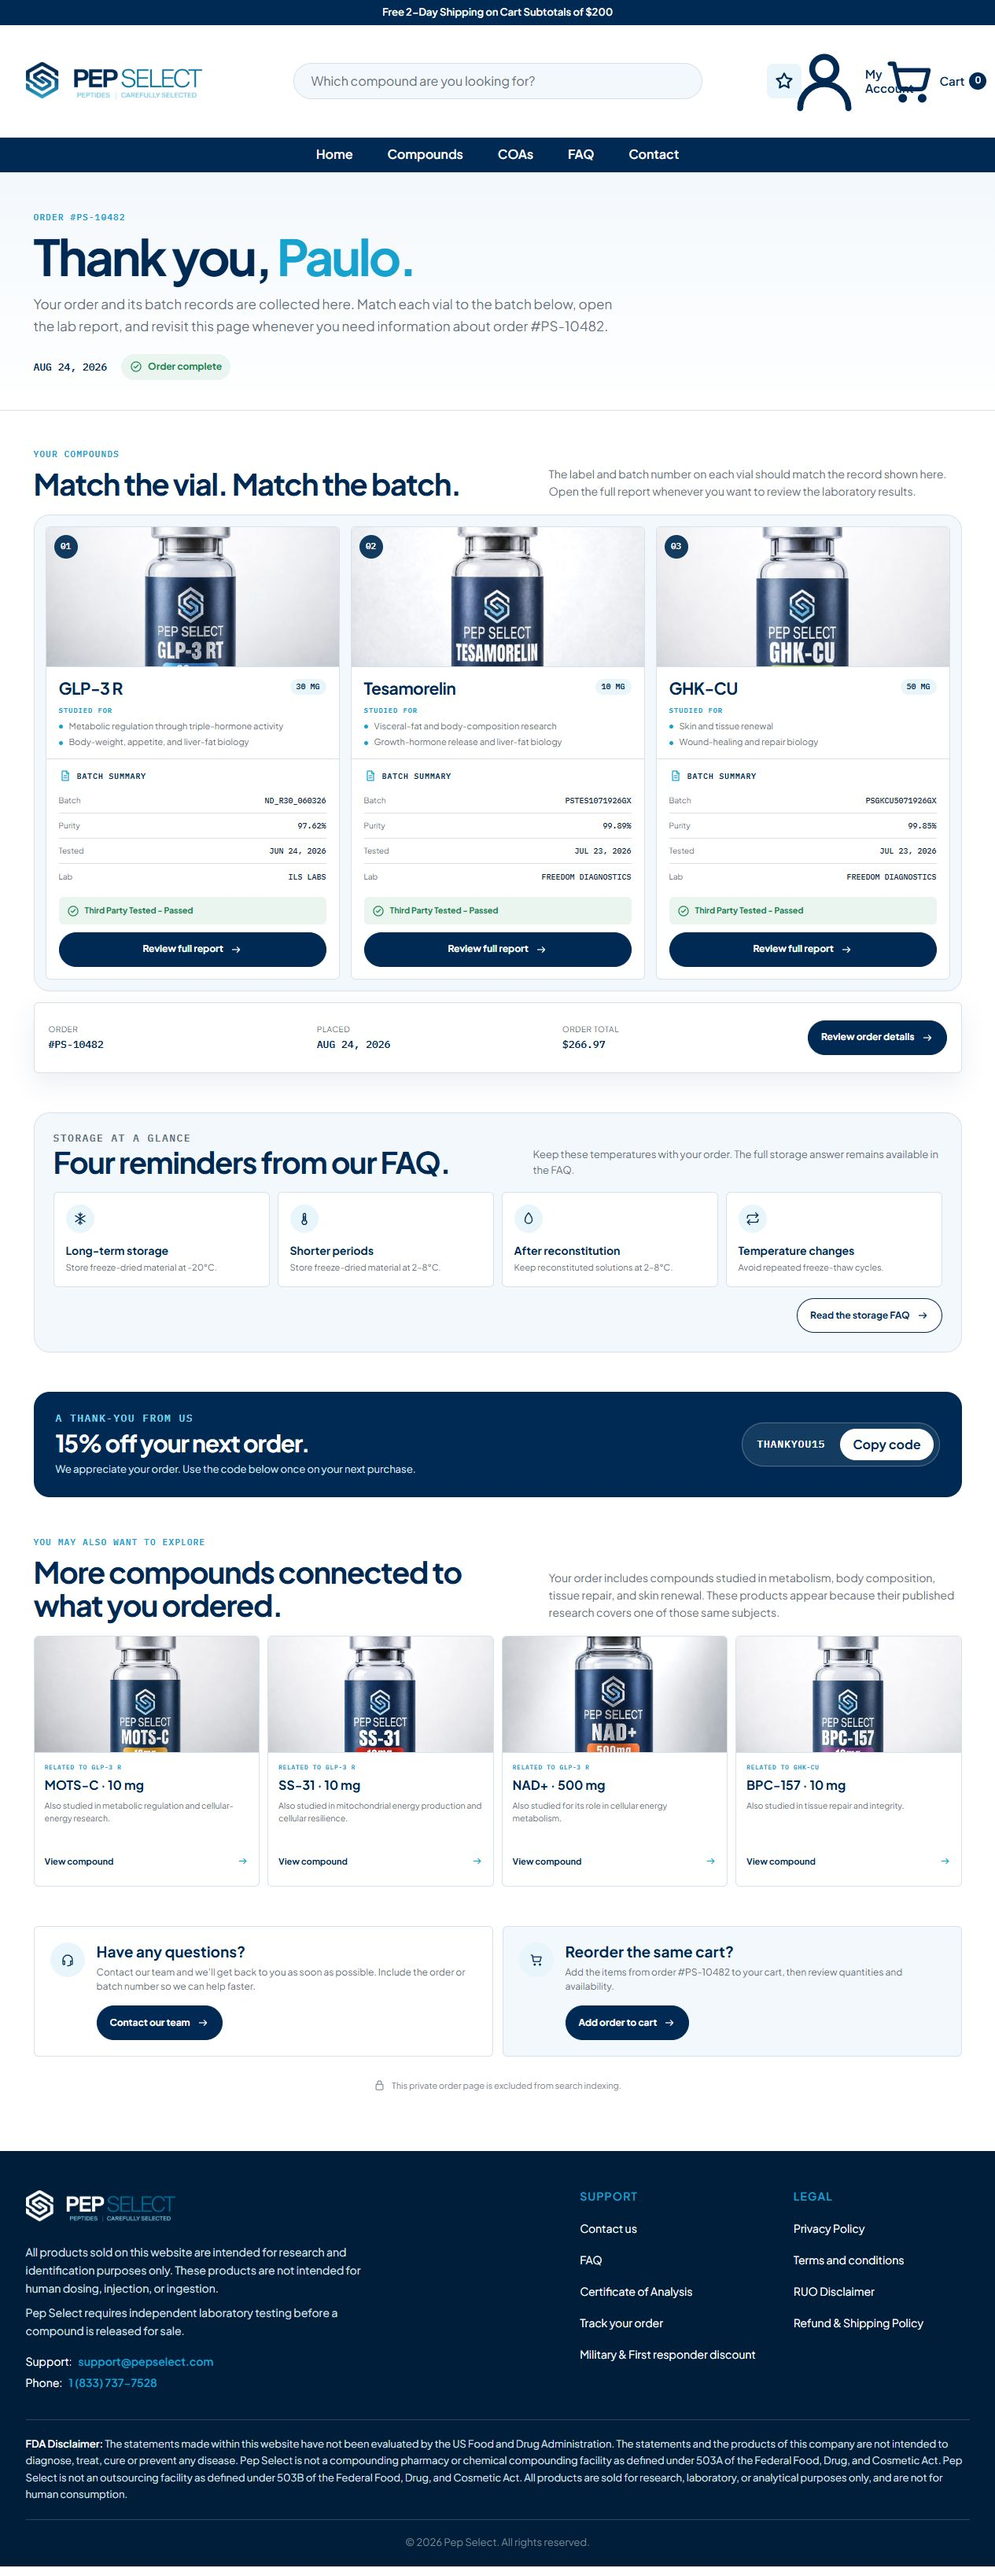
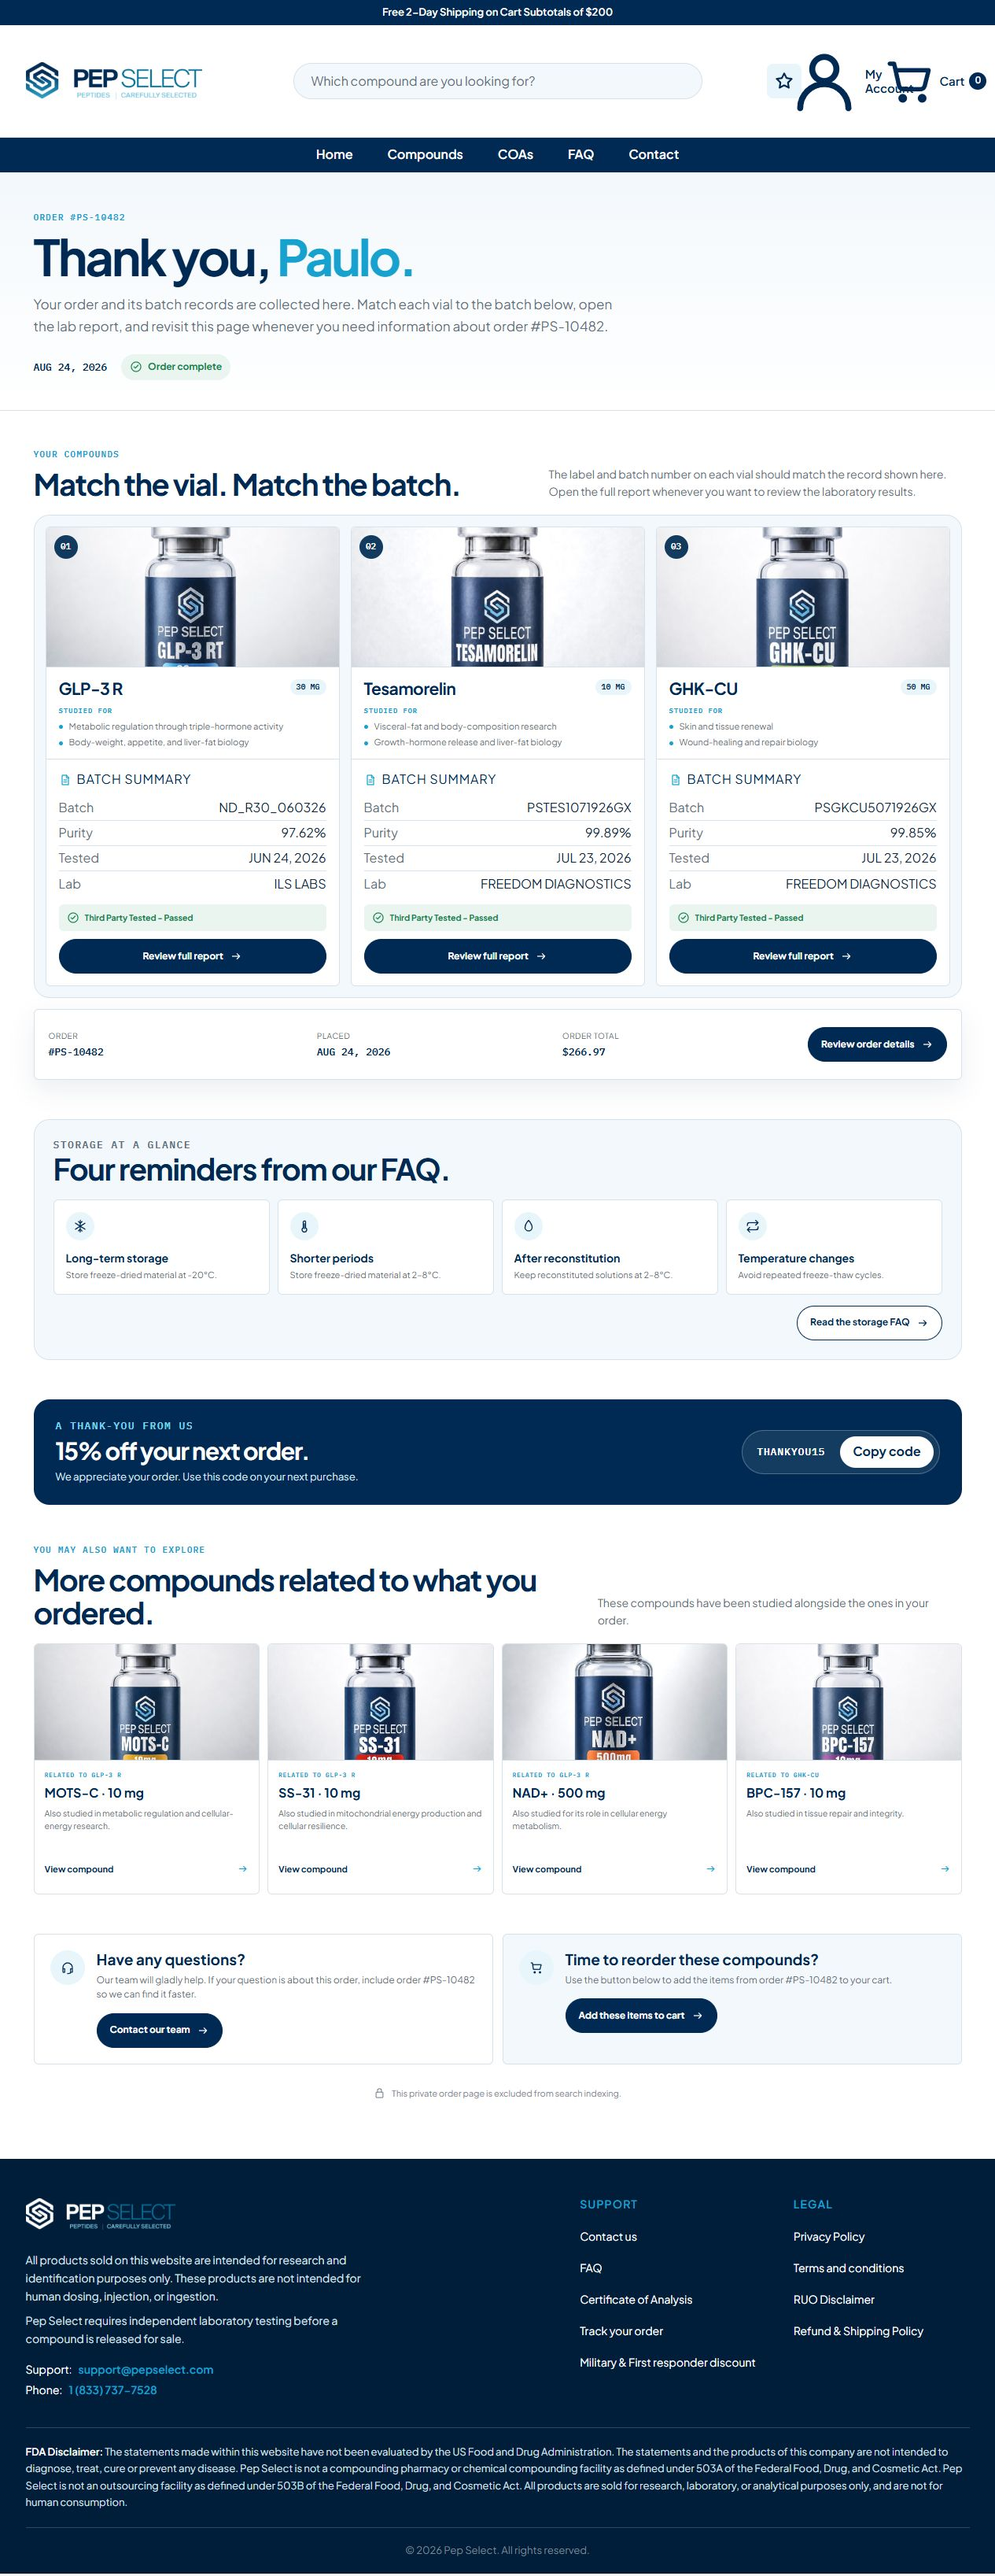
Polish order page type and customer copy

diff --git a/order-thankyou/concept-03.html b/order-thankyou/concept-03.html
@@ -54,13 +54,13 @@
     .context-list li{position:relative;padding-left:13px}
     .context-list li:before{content:"";position:absolute;left:0;top:.6em;width:5px;height:5px;border-radius:50%;background:var(--pep-color-cyan)}
     .batch-block{margin-top:auto;border-top:1px solid var(--pep-color-border);padding:13px 16px 15px}
-    .batch-heading{display:flex;align-items:center;gap:7px;margin:0 0 8px;color:var(--pep-color-navy);font:600 10px/1.3 var(--pep-font-technical);letter-spacing:.08em;text-transform:uppercase}
+    .batch-heading{display:flex;align-items:center;gap:7px;margin:0 0 8px;color:var(--pep-color-navy);font:700 11px/1.3 var(--pep-font-body);letter-spacing:.055em;text-transform:uppercase}
     .batch-heading .icon{width:16px;height:16px;color:var(--pep-color-cyan)}
     .batch-rows{margin:0}
     .batch-row{display:grid;grid-template-columns:minmax(80px,.8fr) minmax(0,1.3fr);gap:10px;align-items:center;min-height:32px;border-bottom:1px solid var(--pep-color-border)}
     .batch-row:last-child{border-bottom:0}
-    .batch-row dt{margin:0;color:var(--pep-color-slate);font-size:10px}
-    .batch-row dd{margin:0;text-align:right;overflow-wrap:anywhere;color:var(--pep-color-ink);font:500 10px/1.35 var(--pep-font-technical)}
+    .batch-row dt{margin:0;color:var(--pep-color-slate);font:500 12px/1.4 var(--pep-font-body)}
+    .batch-row dd{margin:0;text-align:right;overflow-wrap:anywhere;color:var(--pep-color-ink);font:700 11.5px/1.4 var(--pep-font-body)}
     .test-result{display:flex;align-items:center;gap:7px;margin-top:10px;padding:9px 10px;border-radius:var(--order-inner);color:var(--pep-color-green);background:var(--pep-color-green-soft);font-size:10.5px;font-weight:700}
     .test-result .icon{flex:0 0 auto;width:16px;height:16px}
     .report-button,.card-button,.receipt-button,.faq-button{display:inline-flex;align-items:center;justify-content:center;gap:8px;min-height:44px;border:1px solid var(--pep-color-navy);border-radius:var(--pep-radius-pill);padding:9px 16px;color:#fff;background:var(--pep-color-navy);font-size:12px;font-weight:700;text-decoration:none;cursor:pointer;transition:background-color .18s ease,border-color .18s ease}
@@ -126,7 +126,7 @@
       .order-main{padding:34px 0 48px}.order-section+.order-section{margin-top:38px}.section-head{display:block;margin-bottom:15px}.section-head h2{font-size:27px}.section-head>p{margin-top:8px;font-size:12.5px}
       .ordered-grid{grid-template-columns:repeat(2,minmax(0,1fr));gap:8px;padding:8px}.ordered-card:last-child{grid-column:auto;max-width:none}.ordered-media{height:116px}.item-count{top:7px;left:7px;width:26px;height:26px;font-size:9px}
       .ordered-info{padding:11px 10px 9px}.ordered-title{display:block;margin-bottom:8px}.ordered-title h3{font-size:15px}.strength{display:inline-block;margin-top:5px;font-size:8px}.context-label{font-size:7.5px}.context-list{gap:4px;font-size:9px;line-height:1.4}.context-list li{padding-left:10px}.context-list li:before{width:4px;height:4px}
-      .batch-block{padding:10px}.batch-heading{font-size:8px}.batch-row{grid-template-columns:minmax(44px,.62fr) minmax(0,1.38fr);gap:5px;min-height:29px}.batch-row dt{font-size:8px}.batch-row dd{font-size:8px}.test-result{padding:8px 7px;font-size:8px;line-height:1.35}.test-result .icon{width:14px;height:14px}.report-button{min-height:40px;padding:7px 8px;font-size:9px}.report-button .icon{width:14px;height:14px}
+      .batch-block{padding:10px}.batch-heading{font-size:10.5px}.batch-row{grid-template-columns:minmax(44px,.62fr) minmax(0,1.38fr);gap:5px;min-height:34px}.batch-row dt{font-size:10.5px}.batch-row dd{font-size:10.5px;line-height:1.35}.test-result{padding:8px 7px;font-size:9px;line-height:1.35}.test-result .icon{width:14px;height:14px}.report-button{min-height:40px;padding:7px 8px;font-size:9px}.report-button .icon{width:14px;height:14px}
       .receipt summary{grid-template-columns:1fr 1fr;gap:12px;padding:14px}.receipt-summary-item:nth-child(3){display:none}.receipt-button{grid-column:1/-1;width:100%}.receipt-details{grid-template-columns:1fr;gap:0;padding:0 14px 14px}.receipt-costs{padding-top:4px}
       .storage-shell{padding:17px 12px}.storage-head{display:block}.storage-head h2{font-size:26px}.storage-head p{margin-top:8px;font-size:12px}.storage-grid{grid-template-columns:repeat(2,minmax(0,1fr));gap:8px}.storage-fact{padding:12px}.storage-fact .icon-wrap{width:32px;height:32px;margin-bottom:10px}.storage-fact h3{font-size:12px}.storage-fact p{font-size:9.5px}.storage-action{justify-content:stretch}.faq-button{width:100%}
       .thank-you-offer{grid-template-columns:1fr;padding:22px 18px;gap:16px}.thank-you-offer h2{font-size:25px}.coupon{width:100%;justify-content:space-between}
@@ -134,7 +134,7 @@
       .help-grid{grid-template-columns:repeat(2,minmax(0,1fr));gap:8px}.help-card{display:flex;flex-direction:column;padding:13px;gap:9px}.help-icon{width:38px;height:38px}.help-card h2{font-size:15px}.help-card p{min-height:64px;margin-bottom:11px;font-size:9.5px}.card-button{width:100%;padding:8px;font-size:9px}
       .privacy-note{font-size:9px;text-align:center}
     }
-    @media(max-width:360px){.order-wrap{width:min(100% - 18px,1180px)}.ordered-grid,.storage-grid,.related-grid,.help-grid{gap:6px}.ordered-info,.batch-block,.related-body,.help-card{padding:8px}.ordered-media{height:104px}.ordered-title h3{font-size:14px}.batch-row dd{font-size:7.5px}}
+    @media(max-width:360px){.order-wrap{width:min(100% - 18px,1180px)}.ordered-grid,.storage-grid,.related-grid,.help-grid{gap:6px}.ordered-info,.batch-block,.related-body,.help-card{padding:8px}.ordered-media{height:104px}.ordered-title h3{font-size:14px}.batch-row dt,.batch-row dd{font-size:10px}}
   </style>
 </head>
 <body class="pepselect-header-preview pepselect-footer-preview">
@@ -181,13 +181,13 @@
         <details class="receipt"><summary><div class="receipt-summary-item"><span>Order</span><strong>#PS-10482</strong></div><div class="receipt-summary-item"><span>Placed</span><strong>AUG 24, 2026</strong></div><div class="receipt-summary-item"><span>Order total</span><strong>$266.97</strong></div><span class="receipt-button">Review order details<svg class="icon"><use href="#i-arrow"/></svg></span></summary><div class="receipt-details"><div class="receipt-items"><div class="receipt-line"><span>GLP-3 R · 30 mg</span><span>$179.99</span></div><div class="receipt-line"><span>Tesamorelin · 10 mg</span><span>$52.99</span></div><div class="receipt-line"><span>GHK-CU · 50 mg</span><span>$33.99</span></div></div><div class="receipt-costs"><div class="receipt-line"><span>Subtotal</span><span>$266.97</span></div><div class="receipt-line"><span>Shipping</span><span>$0.00</span></div><div class="receipt-line total"><span>Total</span><span>$266.97</span></div></div></div></details>
       </section>
 
-      <section class="order-section storage-shell"><div class="storage-head"><div><p class="section-kicker">Storage at a glance</p><h2>Four reminders from our FAQ.</h2></div><p>Keep these temperatures with your order. The full storage answer remains available in the FAQ.</p></div><div class="storage-grid"><article class="storage-fact"><div class="icon-wrap"><svg class="icon"><use href="#i-snow"/></svg></div><h3>Long-term storage</h3><p>Store freeze-dried material at -20°C.</p></article><article class="storage-fact"><div class="icon-wrap"><svg class="icon"><use href="#i-therm"/></svg></div><h3>Shorter periods</h3><p>Store freeze-dried material at 2–8°C.</p></article><article class="storage-fact"><div class="icon-wrap"><svg class="icon"><use href="#i-drop"/></svg></div><h3>After reconstitution</h3><p>Keep reconstituted solutions at 2–8°C.</p></article><article class="storage-fact"><div class="icon-wrap"><svg class="icon"><use href="#i-repeat"/></svg></div><h3>Temperature changes</h3><p>Avoid repeated freeze-thaw cycles.</p></article></div><div class="storage-action"><a class="faq-button" href="https://pepselect.com/faq/">Read the storage FAQ<svg class="icon"><use href="#i-arrow"/></svg></a></div></section>
+      <section class="order-section storage-shell"><div class="storage-head"><div><p class="section-kicker">Storage at a glance</p><h2>Four reminders from our FAQ.</h2></div></div><div class="storage-grid"><article class="storage-fact"><div class="icon-wrap"><svg class="icon"><use href="#i-snow"/></svg></div><h3>Long-term storage</h3><p>Store freeze-dried material at -20°C.</p></article><article class="storage-fact"><div class="icon-wrap"><svg class="icon"><use href="#i-therm"/></svg></div><h3>Shorter periods</h3><p>Store freeze-dried material at 2–8°C.</p></article><article class="storage-fact"><div class="icon-wrap"><svg class="icon"><use href="#i-drop"/></svg></div><h3>After reconstitution</h3><p>Keep reconstituted solutions at 2–8°C.</p></article><article class="storage-fact"><div class="icon-wrap"><svg class="icon"><use href="#i-repeat"/></svg></div><h3>Temperature changes</h3><p>Avoid repeated freeze-thaw cycles.</p></article></div><div class="storage-action"><a class="faq-button" href="https://pepselect.com/faq/">Read the storage FAQ<svg class="icon"><use href="#i-arrow"/></svg></a></div></section>
 
-      <section class="order-section thank-you-offer"><div><p class="section-kicker">A thank-you from us</p><h2>15% off your next order.</h2><p>We appreciate your order. Use the code below once on your next purchase.</p></div><div class="coupon"><code>THANKYOU15</code><button type="button">Copy code</button></div></section>
+      <section class="order-section thank-you-offer"><div><p class="section-kicker">A thank-you from us</p><h2>15% off your next order.</h2><p>We appreciate your order. Use this code on your next purchase.</p></div><div class="coupon"><code>THANKYOU15</code><button type="button">Copy code</button></div></section>
 
-      <section class="order-section"><div class="section-head"><div><p class="section-kicker">You may also want to explore</p><h2>More compounds connected to what you ordered.</h2></div><p>Your order includes compounds studied in metabolism, body composition, tissue repair, and skin renewal. These products appear because their published research covers one of those same subjects.</p></div><div class="related-grid"><a class="related-card" href="https://pepselect.com/product/mots-c/"><div class="related-image"><img src="assets/mots-c-10mg.jpg" alt="Pep Select MOTS-C 10 mg vial"></div><div class="related-body"><span class="related-to">Related to GLP-3 R</span><h3>MOTS-C · 10 mg</h3><p>Also studied in metabolic regulation and cellular-energy research.</p><span class="related-link">View compound<svg class="icon"><use href="#i-arrow"/></svg></span></div></a><a class="related-card" href="https://pepselect.com/product/ss-31/"><div class="related-image"><img src="assets/ss-31-10mg.jpg" alt="Pep Select SS-31 10 mg vial"></div><div class="related-body"><span class="related-to">Related to GLP-3 R</span><h3>SS-31 · 10 mg</h3><p>Also studied in mitochondrial energy production and cellular resilience.</p><span class="related-link">View compound<svg class="icon"><use href="#i-arrow"/></svg></span></div></a><a class="related-card" href="https://pepselect.com/product/nad/"><div class="related-image"><img src="assets/nad-500mg.jpg" alt="Pep Select NAD+ 500 mg vial"></div><div class="related-body"><span class="related-to">Related to GLP-3 R</span><h3>NAD+ · 500 mg</h3><p>Also studied for its role in cellular energy metabolism.</p><span class="related-link">View compound<svg class="icon"><use href="#i-arrow"/></svg></span></div></a><a class="related-card" href="https://pepselect.com/product/bpc-157/"><div class="related-image"><img src="assets/bpc-157-10mg.jpg" alt="Pep Select BPC-157 10 mg vial"></div><div class="related-body"><span class="related-to">Related to GHK-CU</span><h3>BPC-157 · 10 mg</h3><p>Also studied in tissue repair and integrity.</p><span class="related-link">View compound<svg class="icon"><use href="#i-arrow"/></svg></span></div></a></div></section>
+      <section class="order-section"><div class="section-head"><div><p class="section-kicker">You may also want to explore</p><h2>More compounds related to what you ordered.</h2></div><p>These compounds have been studied alongside the ones in your order.</p></div><div class="related-grid"><a class="related-card" href="https://pepselect.com/product/mots-c/"><div class="related-image"><img src="assets/mots-c-10mg.jpg" alt="Pep Select MOTS-C 10 mg vial"></div><div class="related-body"><span class="related-to">Related to GLP-3 R</span><h3>MOTS-C · 10 mg</h3><p>Also studied in metabolic regulation and cellular-energy research.</p><span class="related-link">View compound<svg class="icon"><use href="#i-arrow"/></svg></span></div></a><a class="related-card" href="https://pepselect.com/product/ss-31/"><div class="related-image"><img src="assets/ss-31-10mg.jpg" alt="Pep Select SS-31 10 mg vial"></div><div class="related-body"><span class="related-to">Related to GLP-3 R</span><h3>SS-31 · 10 mg</h3><p>Also studied in mitochondrial energy production and cellular resilience.</p><span class="related-link">View compound<svg class="icon"><use href="#i-arrow"/></svg></span></div></a><a class="related-card" href="https://pepselect.com/product/nad/"><div class="related-image"><img src="assets/nad-500mg.jpg" alt="Pep Select NAD+ 500 mg vial"></div><div class="related-body"><span class="related-to">Related to GLP-3 R</span><h3>NAD+ · 500 mg</h3><p>Also studied for its role in cellular energy metabolism.</p><span class="related-link">View compound<svg class="icon"><use href="#i-arrow"/></svg></span></div></a><a class="related-card" href="https://pepselect.com/product/bpc-157/"><div class="related-image"><img src="assets/bpc-157-10mg.jpg" alt="Pep Select BPC-157 10 mg vial"></div><div class="related-body"><span class="related-to">Related to GHK-CU</span><h3>BPC-157 · 10 mg</h3><p>Also studied in tissue repair and integrity.</p><span class="related-link">View compound<svg class="icon"><use href="#i-arrow"/></svg></span></div></a></div></section>
 
-      <section class="order-section help-grid"><article class="help-card"><div class="help-icon"><svg class="icon"><use href="#i-headset"/></svg></div><div><h2>Have any questions?</h2><p>Contact our team and we’ll get back to you as soon as possible. Include the order or batch number so we can help faster.</p><a class="card-button" href="https://pepselect.com/contact-us/">Contact our team<svg class="icon"><use href="#i-arrow"/></svg></a></div></article><article class="help-card"><div class="help-icon"><svg class="icon"><use href="#i-cart"/></svg></div><div><h2>Reorder the same cart?</h2><p>Add the items from order #PS-10482 to your cart, then review quantities and availability.</p><a class="card-button" href="#">Add order to cart<svg class="icon"><use href="#i-arrow"/></svg></a></div></article></section>
+      <section class="order-section help-grid"><article class="help-card"><div class="help-icon"><svg class="icon"><use href="#i-headset"/></svg></div><div><h2>Have any questions?</h2><p>Our team will gladly help. If your question is about this order, include order #PS-10482 so we can find it faster.</p><a class="card-button" href="https://pepselect.com/contact-us/">Contact our team<svg class="icon"><use href="#i-arrow"/></svg></a></div></article><article class="help-card"><div class="help-icon"><svg class="icon"><use href="#i-cart"/></svg></div><div><h2>Time to reorder these compounds?</h2><p>Use the button below to add the items from order #PS-10482 to your cart.</p><a class="card-button" href="#">Add these items to cart<svg class="icon"><use href="#i-arrow"/></svg></a></div></article></section>
       <p class="privacy-note"><svg class="icon"><use href="#i-lock"/></svg>This private order page is excluded from search indexing.</p>
     </div>
   </main>
